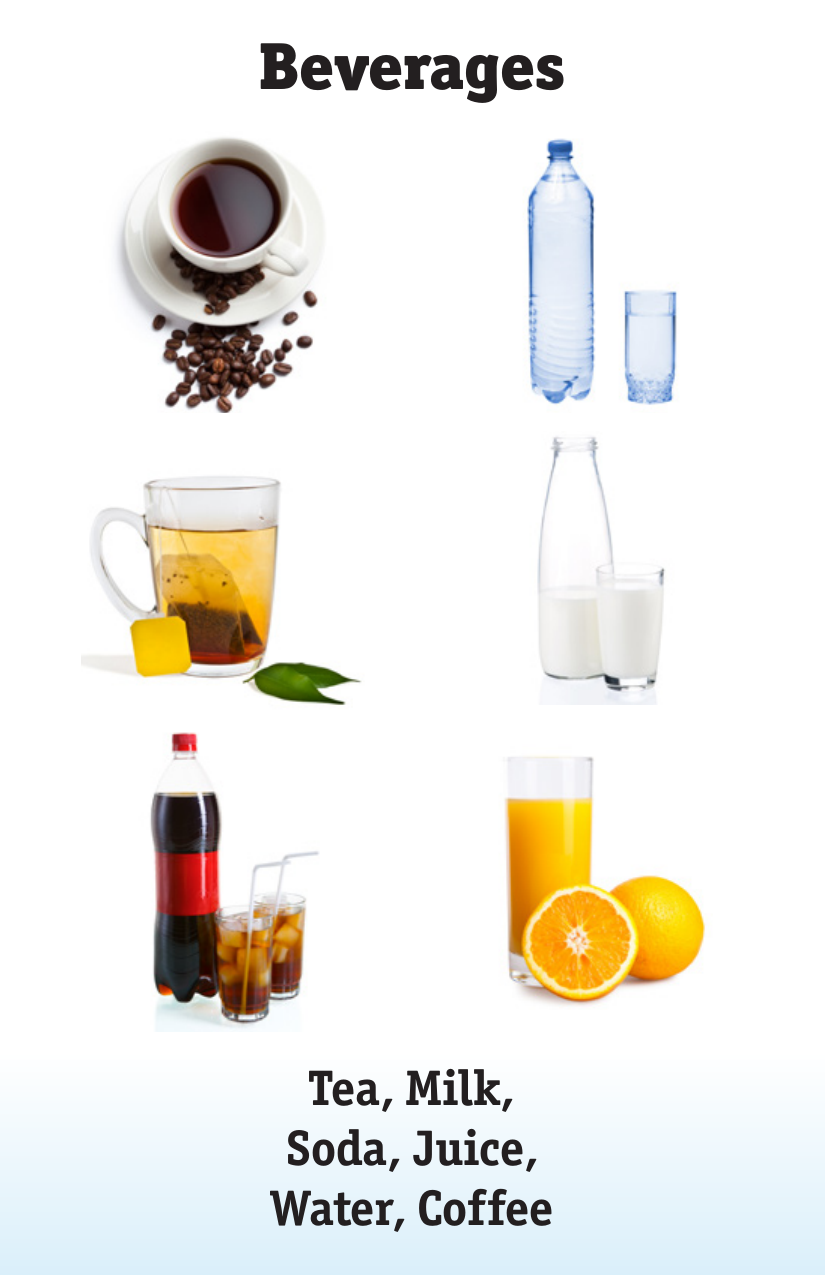
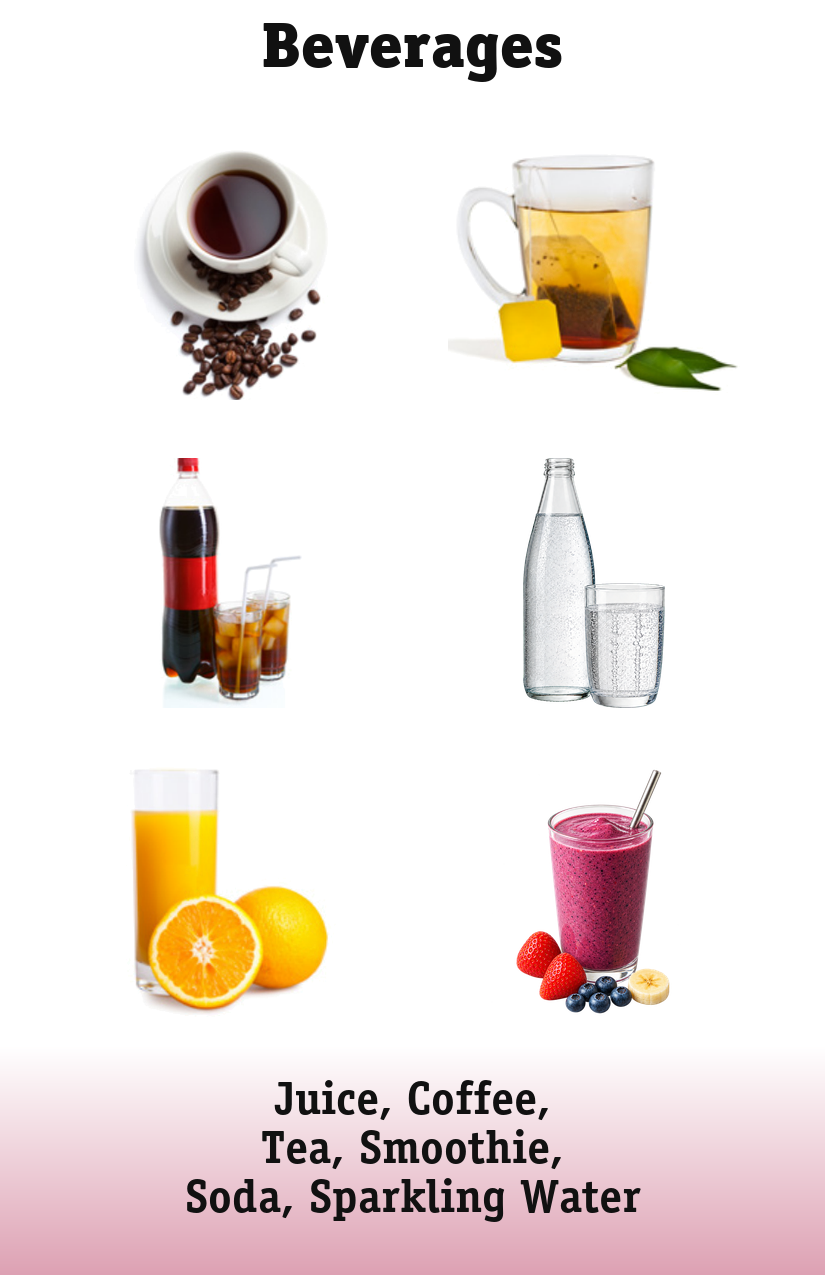
Rebuild Beverages around clear drink pairs

Changed region(s): [[0.1212, 0.0, 0.8788, 0.8259], [0.0, 0.8259, 1.0, 1.0], [0.6061, 0.6118, 0.8788, 0.7953]]

diff --git a/picture-this/game-data.js b/picture-this/game-data.js
@@ -34,11 +34,11 @@ window.PICTURE_THIS_GAME_DATA = {
   ],
   "beverages": [
     "Coffee",
-    "Water",
     "Tea",
-    "Milk",
     "Soda",
-    "Juice"
+    "Sparkling Water",
+    "Juice",
+    "Smoothie"
   ],
   "play": [
     "Basketball",
@@ -1406,6 +1406,42 @@ window.PICTURE_THIS_GAME_DATA = {
 window.PICTURE_THIS_GAME_META = {
   "schema_version": 1,
   "cards": {
+    "beverages": {
+      "title": "Beverages",
+      "category_answers": ["Beverages", "Drinks", "Everyday Beverages", "Common Drinks"],
+      "tags": ["beverages", "drinks", "refreshments", "food"],
+      "items": [
+        {"id": "coffee", "label": "Coffee", "answers": ["Coffee", "Cup of Coffee", "Black Coffee"]},
+        {"id": "tea", "label": "Tea", "answers": ["Tea", "Cup of Tea", "Hot Tea"]},
+        {"id": "soda", "label": "Soda", "answers": ["Soda", "Soft Drink", "Pop", "Cola"]},
+        {"id": "sparkling-water", "label": "Sparkling Water", "answers": ["Sparkling Water", "Carbonated Water", "Fizzy Water", "Seltzer"]},
+        {"id": "juice", "label": "Juice", "answers": ["Juice", "Fruit Juice", "Orange Juice"]},
+        {"id": "smoothie", "label": "Smoothie", "answers": ["Smoothie", "Fruit Smoothie", "Blended Fruit Drink"]}
+      ],
+      "links": [
+        {
+          "word": "brewed",
+          "answers": ["brewed", "brewing", "brew"],
+          "items": ["coffee", "tea"],
+          "explanation": "Coffee and tea are the only two beverages shown that are normally made by brewing.",
+          "audit": "exclusive-among-six-v1"
+        },
+        {
+          "word": "fizzy",
+          "answers": ["fizzy", "carbonated", "bubbly"],
+          "items": ["soda", "sparkling-water"],
+          "explanation": "Soda and sparkling water are the only two carbonated beverages shown.",
+          "audit": "exclusive-among-six-v1"
+        },
+        {
+          "word": "fruit",
+          "answers": ["fruit", "fruity"],
+          "items": ["juice", "smoothie"],
+          "explanation": "Juice and smoothie are the only two beverages shown made primarily from fruit.",
+          "audit": "exclusive-among-six-v1"
+        }
+      ]
+    },
     "pets": {
       "title": "Pets",
       "category_answers": ["Pets", "Pet Animals", "Household Pets", "Common Pets"],

diff --git a/picture-this/question-data.js b/picture-this/question-data.js
@@ -179,45 +179,45 @@ window.PICTURE_THIS_QUESTION_DATA = {
   },
   "beverages": {
     "questions": [
-      "Which drink on the card is the healthiest? Why?",
-      "Where do the drinks on the card come from? Where do you get these drinks?",
-      "What do you drink at breakfast? What do you drink at lunch? Why?",
-      "What is your favorite drink? What is your second favorite?",
-      "Why do you drink hot drinks out of a mug? Why do you drink cold drinks out of a glass?",
-      "Imagine you are in a hot desert. Which drink would you want to have? Why?"
+      "Which beverages are brewed, fizzy, or made from fruit?",
+      "How are coffee and tea prepared? How are they different?",
+      "What makes soda and sparkling water fizzy?",
+      "What fruits can people use to make juice or a smoothie?",
+      "Which of these beverages do you drink most often? Why?",
+      "Imagine you are serving drinks to friends. Which beverages would you choose?"
     ],
     "positions": [
-      13.14,
-      23.18,
-      37.61,
-      47.73,
-      57.84,
-      72.2
+      12.43,
+      22.75,
+      33.1,
+      43.45,
+      53.84,
+      64.16
     ],
     "endpoints": [
       {
-        "x": 51.39,
-        "y": 17.69
+        "x": 74.55,
+        "y": 16.94
       },
       {
-        "x": 30.42,
-        "y": 31.69
+        "x": 70.06,
+        "y": 27.29
       },
       {
-        "x": 87.76,
-        "y": 42.16
+        "x": 42.42,
+        "y": 37.65
       },
       {
-        "x": 61.45,
-        "y": 51.92
+        "x": 75.64,
+        "y": 48.04
       },
       {
-        "x": 45.45,
-        "y": 66.71
+        "x": 70.67,
+        "y": 58.35
       },
       {
-        "x": 39.39,
-        "y": 81.06
+        "x": 58.79,
+        "y": 73.06
       }
     ]
   },

diff --git a/picture-this/link-data.js b/picture-this/link-data.js
@@ -15,7 +15,7 @@ window.PICTURE_THIS_LINK_DATA = {
   "vegetables": [pictureThisLink("underground", [1,4], "Carrots and onions are the only two vegetables shown whose edible parts grow underground.", ["soil"])],
   "zoo": [],
   "feelings": [],
-  "beverages": [pictureThisLink("brewed", [0,2], "Coffee and tea are the only two drinks shown that are normally made by brewing.", ["brewing", "brew"])],
+  "beverages": [],
   "play": [pictureThisLink("small", [3,4], "The tennis ball and baseball are the only two hand-sized balls shown.")],
   "school": [pictureThisLink("pages", [2,4], "The notebook and book are the only two items shown that are made of bound pages.", ["paged"])],
   "personal-items": [
@@ -266,10 +266,7 @@ const auditedLinkAdditions = {
     pictureThisLink("gestures", [1,3], "Surprised and confused are the only two expressions shown with both hands raised."),
     pictureThisLink("drooping", [2,5], "Sad and tired are the only two feelings shown with characteristically lowered energy and posture.")
   ],
-  "beverages": [
-    pictureThisLink("dark", [0,4], "Coffee and soda are the only two beverages shown as dark-colored liquids."),
-    pictureThisLink("plain", [1,3], "Water and milk are the only two unflavored everyday beverages shown.")
-  ],
+  "beverages": [],
   "play": [
     pictureThisLink("courts", [2,3], "Volleyball and tennis are the only two sports shown whose court is divided by a net."),
     pictureThisLink("goals", [1,5], "Soccer and football are the only two sports shown centered on carrying or kicking a ball toward a goal area.")
